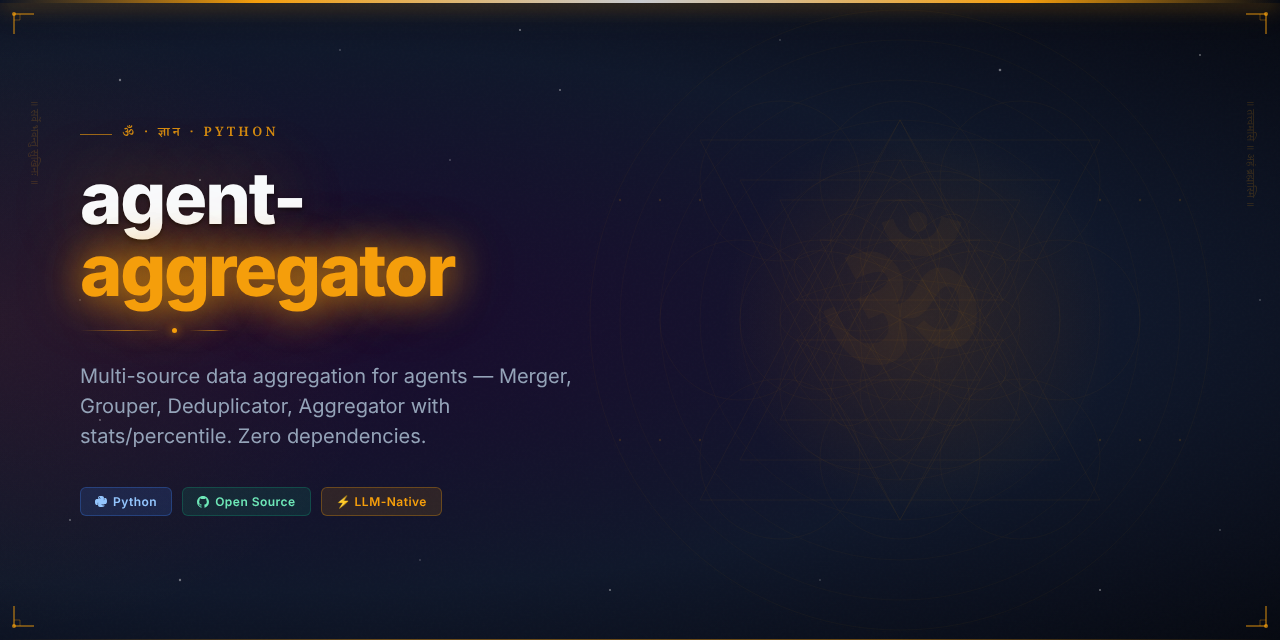
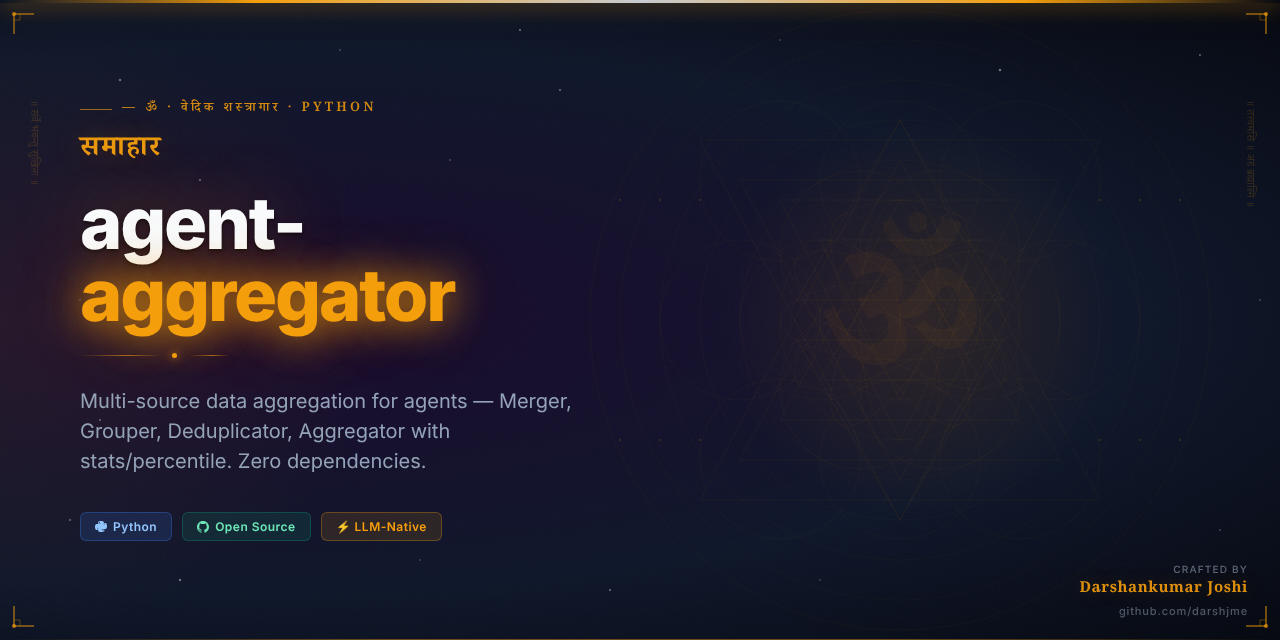
feat: add Vedic Arsenal hero image and updated README
Part of darshjme/arsenal — 100 production-grade Python libraries for LLM agents.
Vedic branding: ancient philosophy meets modern AI engineering.

Changed region(s): [[0.0625, 0.2812, 0.4375, 0.8438], [0.0625, 0.1562, 0.2812, 0.25], [0.8438, 0.875, 0.9688, 0.9688]]

diff --git a/README.md b/README.md
@@ -1,10 +1,12 @@
 <div align="center">
 
-<img src="assets/agent-aggregator-hero.png" alt="agent-aggregator — Vedic Arsenal" width="100%" />
+<img src="assets/agent-aggregator-hero.png" alt="agent-aggregator — Vedic Arsenal by Darshankumar Joshi" width="100%" />
 
 # ⚡ agent-aggregator
 
-### *समाहार* — Samahar — the gathering of distributed wisdom
+<h3><em>समाहार</em></h3>
+
+> *Samahar — the gathering of distributed wisdom*
 
 **Multi-source data aggregation for agents — Merger, Grouper, Deduplicator, Aggregator with stats/percentile. Zero dependencies.**
 
@@ -39,6 +41,19 @@ Or clone directly:
 git clone https://github.com/darshjme/agent-aggregator.git
 cd agent-aggregator
 pip install -e .
+```
+
+## How It Works
+
+```mermaid
+flowchart LR
+    A[Input] --> B[agent-aggregator]
+    B --> C{Process}
+    C -- Success --> D[Output]
+    C -- Error --> E[Handle / Retry]
+    E --> B
+    style B fill:#6b21a8,color:#fff
+    note["Aggregator — Zero Dependencies"]
 ```
 
 ## Quick Start
@@ -90,7 +105,7 @@ MIT — use freely, build freely.
 
 <div align="center">
 
-**Built with ⚡ by [Darshankumar Joshi](https://github.com/darshjme)**
+**Built with ⚡ by [Darshankumar Joshi](https://github.com/darshjme)** · [@thedarshanjoshi](https://twitter.com/thedarshanjoshi)
 
 *"कर्मण्येवाधिकारस्ते मा फलेषु कदाचन"*
 *Your right is to action alone, never to the fruits thereof.*
